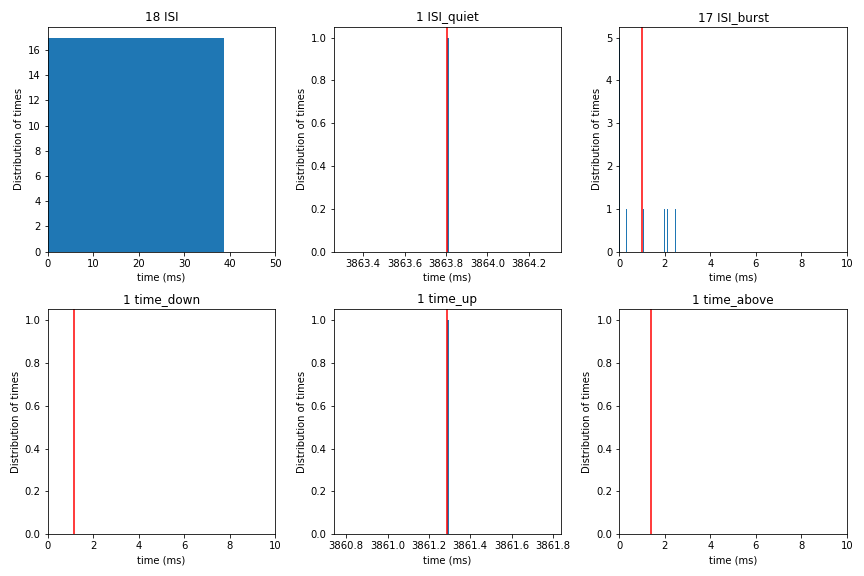
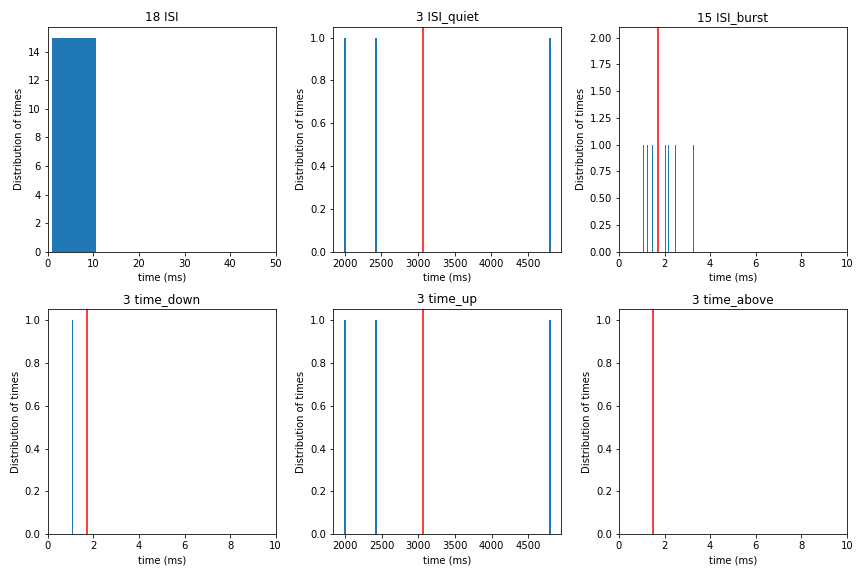
new histograms and statistics script

diff --git a/Neuron.py b/Neuron.py
@@ -238,7 +238,7 @@ def plot_histograms(results):
         ax.set_xlabel('time (ms)')
         ax.set_ylabel('Distribution of times')
         if key == 'ISI':
-            ax.hist(flat_intervals[np.where(flat_intervals>.0005)]*1000, normed = False, bins = 500)
+            ax.hist(flat_intervals[np.where(flat_intervals>.0005)]*1000, normed = False, bins = range(0,50,1))
         else:
             ax.hist(flat_intervals*1000, normed = False, bins = 100)
         ax.axvline(flat_intervals.mean()*1000, color = 'r')
@@ -315,8 +315,8 @@ E_K = -90 * mV
 tau = 1.0*ms
 
 #parameters to play with
-tau_n = .155*ms
-Iapp = 1.2* uA #/cm**2
+tau_n = .1625*ms
+Iapp = 3.9* uA #/cm**2
 I_noise = 2*uA
 duration = 10000*ms
 
@@ -337,7 +337,7 @@ m_inf = 1./(1+exp((-20-v/mV)/15.)) : 1
 #Spikes, t, V, n = simulate_neuron(tau_n, Iapp, 1, -30*mV, 0, duration, I_noise)
 #ISIs = calculate_ISI(Spikes)
 #plt.hist(ISIs, bins = 100)
-plot_everything(tau_n=tau_n, Iapp=Iapp, duration=duration, I_noise=I_noise, number =10, v0=-30*mV, n0=.05, plot = False)
+plot_everything(tau_n=tau_n, Iapp=Iapp, duration=duration, I_noise=I_noise, number =10, v0=-30*mV, n0=.05, plot = True)
 
 #get_points(tau_n=tau_n, Iapp=Iapp)
 #find_sep_approx(tau_n=tau_n, Iapp=Iapp)

diff --git a/stat_testing.py b/stat_testing.py
@@ -1,0 +1,40 @@
+from scipy import *
+from brian2 import *
+import pickle
+import numpy as np
+from scipy import stats
+import matplotlib.pyplot as plt
+
+def inverse_gauss(x):
+    return sqrt(Lambda/(2*pi*x**3))*exp(-Lambda*(x-mu)**2/(2*mu**2*x))
+
+
+    
+
+tau_n = .155*ms
+Iapp = 3.9* uA #/cm**2
+I_noise = 2*uA
+duration = 10000*ms
+
+v0=-30*mV
+n0=.05
+
+file_name=str(tau_n)+'  '+str(Iapp)+'  ('+str(v0)+', '+str(n0)+')  '+str(duration/second) +' s  '+str(I_noise)
+
+with open('simulations/'+file_name, 'rb') as f:
+    results = pickle.load(f)
+    
+ISI = np.array([interval for neuron in results['ISI'] for interval in neuron])*1000
+
+mu = np.mean(ISI)
+Lambda = np.mean(1/(1/ISI - 1/mu))
+
+print(stats.kstest(ISI, inverse_gauss))
+
+plt.figure()
+plt.hist(ISI, bins = 1000, normed = True)
+x=np.arange(0,20,.05)
+plt.plot(x, inverse_gauss(x))
+plt.axvline(mu)
+plt.xlim((0,20))
+plt.show()
